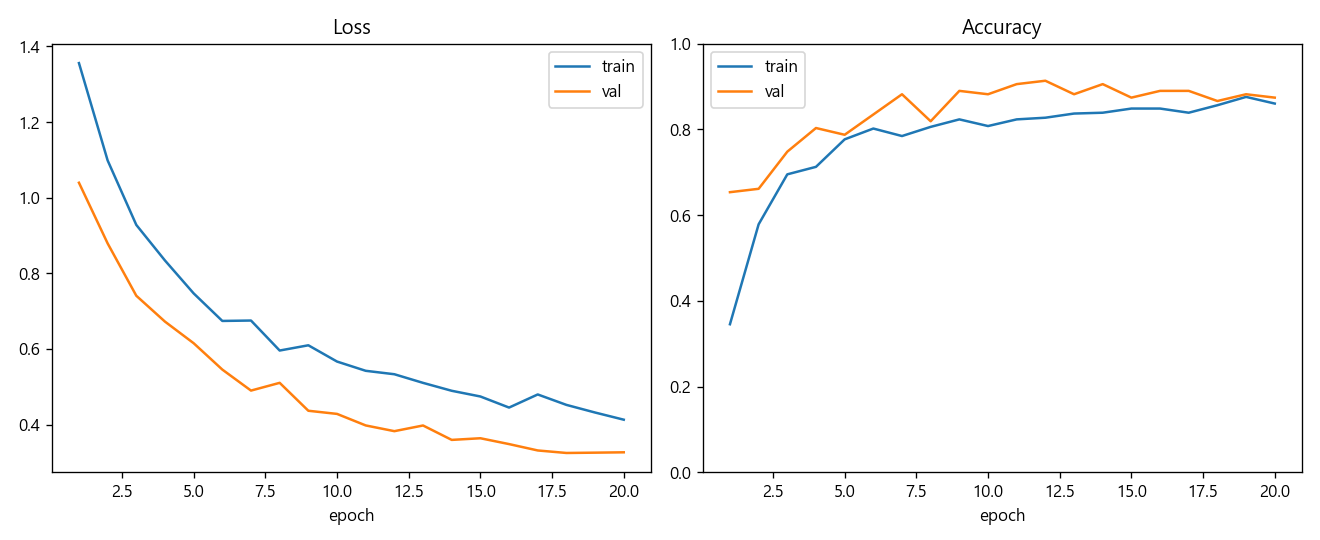
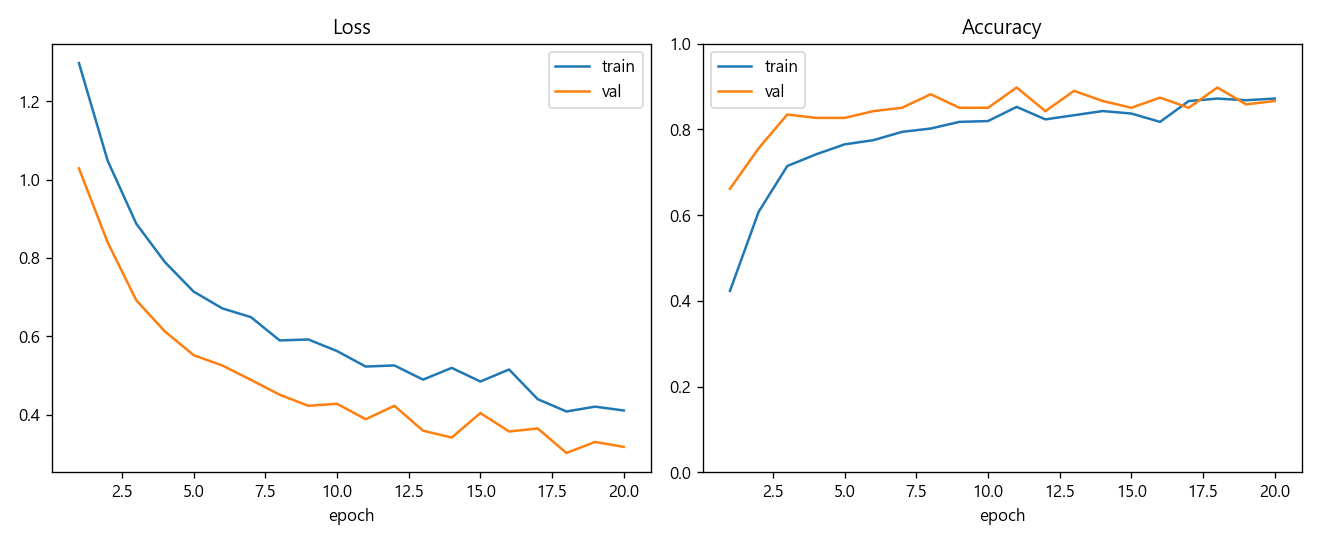
fix: 학습 체크포인트가 중단 시 덮어써지는 사고 수정 + 안전한 재학습으로 복구
사고: 91.3% val_acc 체크포인트가 있는 상태에서 불필요한 재학습을 걸었다가
강제종료했는데, 종료되기 전에 1 epoch째 저장이 먼저 끝나버려서 좋은
체크포인트가 덜 학습된 가중치로 덮어써짐 (1 epoch째는 항상 "최고 기록"
조건을 만족하므로).

수정: train.py가 학습 중에는 <ckpt>.tmp에만 저장하고, 전체 epoch가 끝까지
성공해야 os.replace로 최종 파일에 반영하도록 변경 — 중간에 죽여도 기존
체크포인트가 안전함. --eval-only 플래그도 추가(재학습 없이 체크포인트
불러와 val/test만 재평가).

복구: 처음부터 끝까지 재학습 + data/test2 병합으로 늘어난 test(104장)로
재평가. Val 89.8%, Test 64.4%(이전 56장 기준 58.9%보다 개선, 하락폭도
32.4%p->25.3%p로 감소). mug가 Test에서 1/6(17%)->5/10(50%)로 정상화되어
이전 수치가 표본 노이즈였음을 확인.

docs/experiment-log.md, docs/troubleshooting.md에 사고 경위와 교훈 기록.

Claude-Session: https://claude.ai/code/session_017RchT2YestydpNo3gmGA3i

diff --git a/src/deep_learning/dl2_resnet/train.py b/src/deep_learning/dl2_resnet/train.py
@@ -215,11 +215,13 @@ def main() -> None:
     parser.add_argument("--no-freeze-backbone", dest="freeze_backbone", action="store_false")
     parser.add_argument("--out-dir", default="reports/figures")
     parser.add_argument("--checkpoint-dir", default="checkpoints")
+    parser.add_argument("--eval-only", action="store_true",
+                         help="재학습 없이 기존 체크포인트를 불러와 val/test만 재평가한다")
     args = parser.parse_args()
 
     device = "cuda" if torch.cuda.is_available() else "cpu"
     print(f"device: {device}")
-    print(f"model: {args.model}, freeze_backbone={args.freeze_backbone}, epochs={args.epochs}")
+    print(f"model: {args.model}, freeze_backbone={args.freeze_backbone}, eval_only={args.eval_only}")
 
     samples = list_samples(args.data_root)
     print(f"{args.data_root}: 총 {len(samples)}장")
@@ -241,44 +243,62 @@ def main() -> None:
         transforms.Normalize(IMAGENET_MEAN, IMAGENET_STD),
     ])
 
-    train_loader = DataLoader(ShapeDataset(train_samples, train_tf), batch_size=args.batch_size,
-                               shuffle=True, num_workers=0)
     val_loader = DataLoader(ShapeDataset(val_samples, eval_tf), batch_size=args.batch_size,
                              shuffle=False, num_workers=0)
 
     model = build_model(args.model, args.freeze_backbone).to(device)
     criterion = nn.CrossEntropyLoss()
-    trainable_params = [p for p in model.parameters() if p.requires_grad]
-    optimizer = torch.optim.Adam(trainable_params, lr=args.lr)
 
-    history = {"train_loss": [], "train_acc": [], "val_loss": [], "val_acc": []}
-    t_start = time.time()
-    best_val_acc = 0.0
     os.makedirs(args.checkpoint_dir, exist_ok=True)
     ckpt_path = os.path.join(args.checkpoint_dir, f"{args.model}_shape.pth")
 
-    for epoch in range(1, args.epochs + 1):
-        train_loss, train_acc = run_epoch(model, train_loader, criterion, optimizer, device, train=True)
-        val_loss, val_acc = run_epoch(model, val_loader, criterion, optimizer, device, train=False)
-        history["train_loss"].append(train_loss)
-        history["train_acc"].append(train_acc)
-        history["val_loss"].append(val_loss)
-        history["val_acc"].append(val_acc)
-        elapsed = time.time() - t_start
-        print(f"epoch {epoch:3d}/{args.epochs}  train_loss={train_loss:.4f} train_acc={train_acc:.3f}  "
-              f"val_loss={val_loss:.4f} val_acc={val_acc:.3f}  ({elapsed:.0f}s 누적)")
-        if val_acc > best_val_acc:
-            best_val_acc = val_acc
-            torch.save(model.state_dict(), ckpt_path)
+    if args.eval_only:
+        if not os.path.isfile(ckpt_path):
+            print(f"체크포인트가 없습니다: {ckpt_path} (먼저 --eval-only 없이 학습해라)")
+            return
+        print(f"체크포인트 로드: {ckpt_path} (재학습 건너뜀)")
+        model.load_state_dict(torch.load(ckpt_path, map_location=device))
+        _, best_val_acc = run_epoch(model, val_loader, criterion, None, device, train=False)
+        print(f"val_acc={best_val_acc:.3f}\n")
+        history = None
+    else:
+        train_loader = DataLoader(ShapeDataset(train_samples, train_tf), batch_size=args.batch_size,
+                                   shuffle=True, num_workers=0)
+        trainable_params = [p for p in model.parameters() if p.requires_grad]
+        optimizer = torch.optim.Adam(trainable_params, lr=args.lr)
 
-    print(f"\n학습 완료. 최고 val_acc={best_val_acc:.3f}, 체크포인트: {ckpt_path}")
+        # 학습 중에는 임시 파일에만 저장한다 — 도중에 죽어도(중단/크래시) 기존
+        # ckpt_path의 "완주한" 체크포인트가 절대 안 망가지도록 함(실제로 한 번
+        # 겪은 사고: 재학습을 중간에 죽였는데 1 epoch째 저장이 먼저 끝나서
+        # 기존 91.3% 체크포인트가 그걸로 덮어써진 적 있음 — docs/troubleshooting.md).
+        tmp_ckpt_path = ckpt_path + ".tmp"
+        history = {"train_loss": [], "train_acc": [], "val_loss": [], "val_acc": []}
+        t_start = time.time()
+        best_val_acc = 0.0
 
-    model.load_state_dict(torch.load(ckpt_path, map_location=device))
+        for epoch in range(1, args.epochs + 1):
+            train_loss, train_acc = run_epoch(model, train_loader, criterion, optimizer, device, train=True)
+            val_loss, val_acc = run_epoch(model, val_loader, criterion, optimizer, device, train=False)
+            history["train_loss"].append(train_loss)
+            history["train_acc"].append(train_acc)
+            history["val_loss"].append(val_loss)
+            history["val_acc"].append(val_acc)
+            elapsed = time.time() - t_start
+            print(f"epoch {epoch:3d}/{args.epochs}  train_loss={train_loss:.4f} train_acc={train_acc:.3f}  "
+                  f"val_loss={val_loss:.4f} val_acc={val_acc:.3f}  ({elapsed:.0f}s 누적)")
+            if val_acc > best_val_acc:
+                best_val_acc = val_acc
+                torch.save(model.state_dict(), tmp_ckpt_path)
+
+        os.replace(tmp_ckpt_path, ckpt_path)  # 전체 학습이 끝까지 성공했을 때만 최종 반영
+        print(f"\n학습 완료. 최고 val_acc={best_val_acc:.3f}, 체크포인트: {ckpt_path}")
+        model.load_state_dict(torch.load(ckpt_path, map_location=device))
 
     os.makedirs(args.out_dir, exist_ok=True)
-    curves_path = os.path.join(args.out_dir, f"{args.model}_training_curves.png")
-    plot_training_curves(history, curves_path)
-    print(f"학습 곡선 저장: {curves_path}")
+    if history is not None:
+        curves_path = os.path.join(args.out_dir, f"{args.model}_training_curves.png")
+        plot_training_curves(history, curves_path)
+        print(f"학습 곡선 저장: {curves_path}")
 
     val_matrix = evaluate_confusion(model, val_loader, device)
     val_cm_path = os.path.join(args.out_dir, f"{args.model}_val_confusion_matrix.png")
@@ -294,7 +314,7 @@ def main() -> None:
         print(f"\n{args.test_root}: 총 {len(test_samples)}장 - domain shift 평가")
         test_loader = DataLoader(ShapeDataset(test_samples, eval_tf), batch_size=args.batch_size,
                                   shuffle=False, num_workers=0)
-        _, test_acc = run_epoch(model, test_loader, criterion, optimizer, device, train=False)
+        _, test_acc = run_epoch(model, test_loader, criterion, None, device, train=False)
         test_matrix = evaluate_confusion(model, test_loader, device)
         test_cm_path = os.path.join(args.out_dir, f"{args.model}_test_confusion_matrix.png")
         plot_confusion(test_matrix, f"{args.model} Test(실촬영) Confusion Matrix", test_cm_path)

diff --git a/docs/experiment-log.md b/docs/experiment-log.md
@@ -32,7 +32,8 @@
 
 | 날짜 | 담당자 | 변경 사항 | Val 정확도 | Test 정확도 | 비고 |
 |---|---|---|---|---|---|
-| 2026-09-15 | Claude | `train.py` 최초 구현 — ResNet-18 ImageNet 사전학습, 백본 freeze(FC layer만 학습), `data/preprocess`(642장, 강한 신호 제외) 층화 80/20 분할, 증강에 `RandomPerspective` 포함(촬영 각도 왜곡을 직접 겨냥), 20 epoch, GPU RTX 4050(145s) | **91.3%**(best epoch 12) | **58.9%**(33/56, data/test 실촬영) | **압도적 개선**: 같은 Test 세트에서 룰베이스 18%, Mask R-CNN 39% 대비 두 배 가까이 높음 — 기하학적 규칙(`classify_shape`) 대신 학습된 시각 패턴을 쓰는 게 촬영 각도 왜곡에 훨씬 강하다는 가설이 실측으로 확인됨. Val→Test 하락폭은 32.4%p로 여전히 크지만(진짜 domain shift), 절대 정확도 자체가 크게 앞섬. Val 클래스별 F1: straight 0.928, taper_smooth 0.903, taper_step 0.857, mug 0.955 — 고르게 좋음. **Test에서는 mug만 1/6(17%)로 급락**(4장이 taper_step으로 오분류) — 표본이 6장뿐이라 노이즈 가능성 있음, 확대 검증 필요. 그래프: `reports/figures/resnet18_{training_curves,val_confusion_matrix,test_confusion_matrix}.png`, 체크포인트: `checkpoints/resnet18_shape.pth` |
+| 2026-09-15 | Claude | `train.py` 최초 구현 — ResNet-18 ImageNet 사전학습, 백본 freeze(FC layer만 학습), `data/preprocess`(642장, 강한 신호 제외) 층화 80/20 분할, 증강에 `RandomPerspective` 포함(촬영 각도 왜곡을 직접 겨냥), 20 epoch, GPU RTX 4050(145s) | 91.3%(best epoch 12) | 58.9%(33/56, data/test 초기 56장) | **압도적 개선**: 같은 Test 세트에서 룰베이스 18%, Mask R-CNN 39% 대비 두 배 가까이 높음 — 기하학적 규칙(`classify_shape`) 대신 학습된 시각 패턴을 쓰는 게 촬영 각도 왜곡에 훨씬 강하다는 가설이 실측으로 확인됨. Test에서 mug만 1/6(17%)로 급락 — 표본이 6장뿐이라 노이즈 의심. **주의: 이 체크포인트는 이후 사고로 유실됨(아래 항목 참고), 수치는 참고용** |
+| 2026-09-15 | Claude | `data/test`에 `data/test2` 48장 병합(104장, mug 10장으로 확대) 후 재평가하려다, **재학습 프로세스를 도중에 강제종료했는데 1 epoch째 체크포인트 저장이 먼저 끝나버려 기존 91.3% 체크포인트가 그걸로 덮어써짐** — `--eval-only`로 불러온 val_acc가 80.3%로 나와서 발견. `train.py`에 안전장치 추가(학습 중에는 `.tmp` 파일에만 저장, 전체 epoch가 끝까지 성공했을 때만 `os.replace`로 최종 반영 — 중간에 죽어도 기존 체크포인트 안전) 후 처음부터 재학습 | **89.8%**(best epoch 18) | **64.4%**(67/104, data/test 104장 — mug 포함 확대판) | mug 정상화 확인: Test에서 5/10(50%)로 회복 — 이전 1/6(17%)이 정말 표본 노이즈였음이 확인됨. 클래스별 Test 정확도: straight 21/38(55%), taper_smooth 15/22(68%), **taper_step 26/34(76%, 4트랙 중 처음으로 taper_step이 제일 강한 클래스)**, mug 5/10(50%). Val→Test 하락폭 25.3%p로 이전 56장 기준(32.4%p)보다도 줄어듦 — 표본이 커지니 추정치가 더 안정적. 그래프/체크포인트는 이 실행 결과로 덮어써짐(위 항목의 수치는 재현 불가) |
 
 ## EfficientNet-B0 (`src/deep_learning/efficientnet/`)
 

diff --git a/docs/troubleshooting.md b/docs/troubleshooting.md
@@ -29,6 +29,15 @@
 
 ## 로그
 
+## [2026-09-15] 학습 도중 프로세스를 강제종료했다가 기존 좋은 체크포인트가 덮어써짐
+
+- **트랙/영역**: deep_learning/dl2_resnet — `train.py`
+- **증상**: 91.3% val_acc로 잘 학습된 체크포인트가 있는 상태에서, "늘어난 test로 재평가"를 위해 별생각 없이 `train.py`(재학습 포함)를 다시 실행함 → 사용자가 "왜 재학습하냐, 체크포인트만 불러와서 평가하면 되잖아"라고 지적 → 백그라운드 프로세스를 강제종료(`Stop-Process`)함. 근데 `--eval-only`를 새로 만들어서 같은 체크포인트를 불러와 평가했더니 val_acc가 80.3%로 나옴(91.3%여야 정상).
+- **원인**: 강제종료 명령이 프로세스에 전달되고 실제로 죽기까지 시간차가 있는데, 그 사이에 **1 epoch째 학습이 이미 끝나서 체크포인트 저장 로직(`if val_acc > best_val_acc: torch.save(...)`)이 실행돼버림** — 1 epoch째는 초기값 0.0보다 무조건 높으므로 항상 저장 조건을 만족함. 그 결과 겨우 1 epoch만 학습된(val_acc 낮음) 가중치가 기존 91.3% 체크포인트를 덮어씀. `--eval-only` 자체는 정상 동작했고, 정직하게 "지금 파일에 저장된 걸" 불러와 평가했을 뿐 — 버그가 아니라 파일이 이미 손상된 상태였음.
+- **해결**: 미봉책 없음 — 좋았던 가중치는 복구 불가, 처음부터 재학습(중단 없이 끝까지 실행)해서 새로 89.8% 체크포인트 확보. 재발 방지로 `train.py`를 고침: 학습 루프 중에는 `<ckpt>.tmp`에만 저장하고, **전체 epoch가 끝까지 성공적으로 끝났을 때만 `os.replace(tmp, ckpt)`로 최종 파일에 반영**. 이제 학습을 중간에 죽여도 `.tmp` 파일만 지저분해질 뿐 기존 `ckpt_path`는 절대 안 바뀜.
+- **교훈**: "점진적으로 최고 기록을 덮어쓰며 저장"하는 학습 스크립트는 실행 중 강제종료에 취약하다 — 특히 **매 실행 초반(1 epoch째)에는 거의 항상 저장 조건을 만족**하므로, "막 시작한 프로세스니까 죽여도 안전하겠지"라는 가정이 틀릴 수 있다. 체크포인트를 학습 중간에 직접 최종 경로에 쓰지 말고, 임시 파일 경유 + 원자적 교체(`os.replace`)로 저장하는 패턴을 처음부터 넣을 것.
+- **관련 파일**: `src/deep_learning/dl2_resnet/train.py`
+
 ## [2026-09-15] print()의 em-dash(—) 때문에 학습 스크립트가 마지막 단계에서 크래시
 
 - **트랙/영역**: 전체 스크립트 공통 — `src/deep_learning/dl2_resnet/train.py`에서 첫 발견
